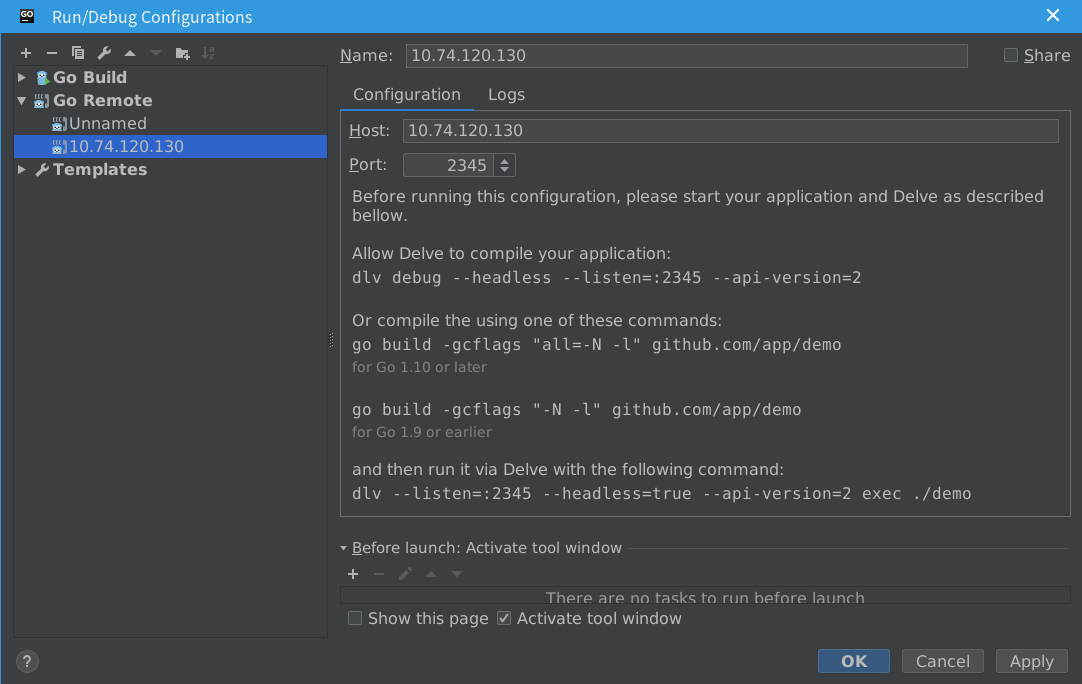
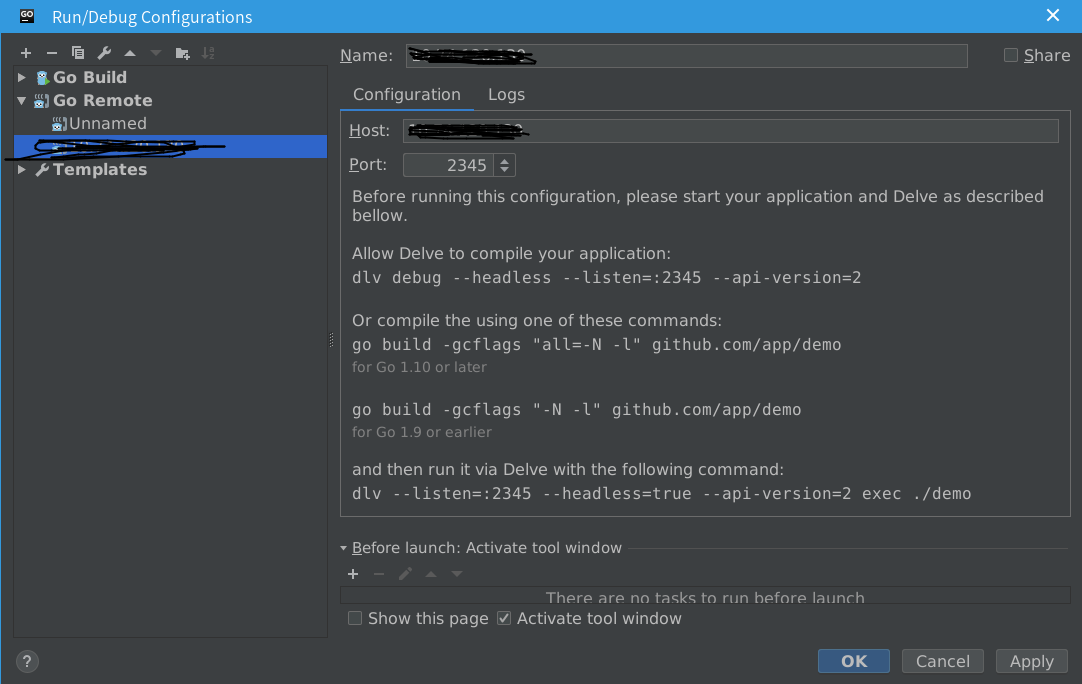
去除一些敏感信息

Changed region(s): [[0.0, 0.1842, 0.183, 0.2456], [0.366, 0.1842, 0.488, 0.2149], [0.366, 0.0614, 0.488, 0.0921]]

diff --git a/my-learning.md b/my-learning.md
@@ -623,7 +623,7 @@ ln -sf ${youDirectory}/kata-runtime.swapper.sh kata-runtime.swapper
 
 ![](./assets/goland.png)
 
-6.在 10.74.120.130 上 执行如下命令
+6.在远程 host 主机上执行如下命令
 
 ```shell
 docker run --runtime dlv -d -ti busybox /bin/sh
